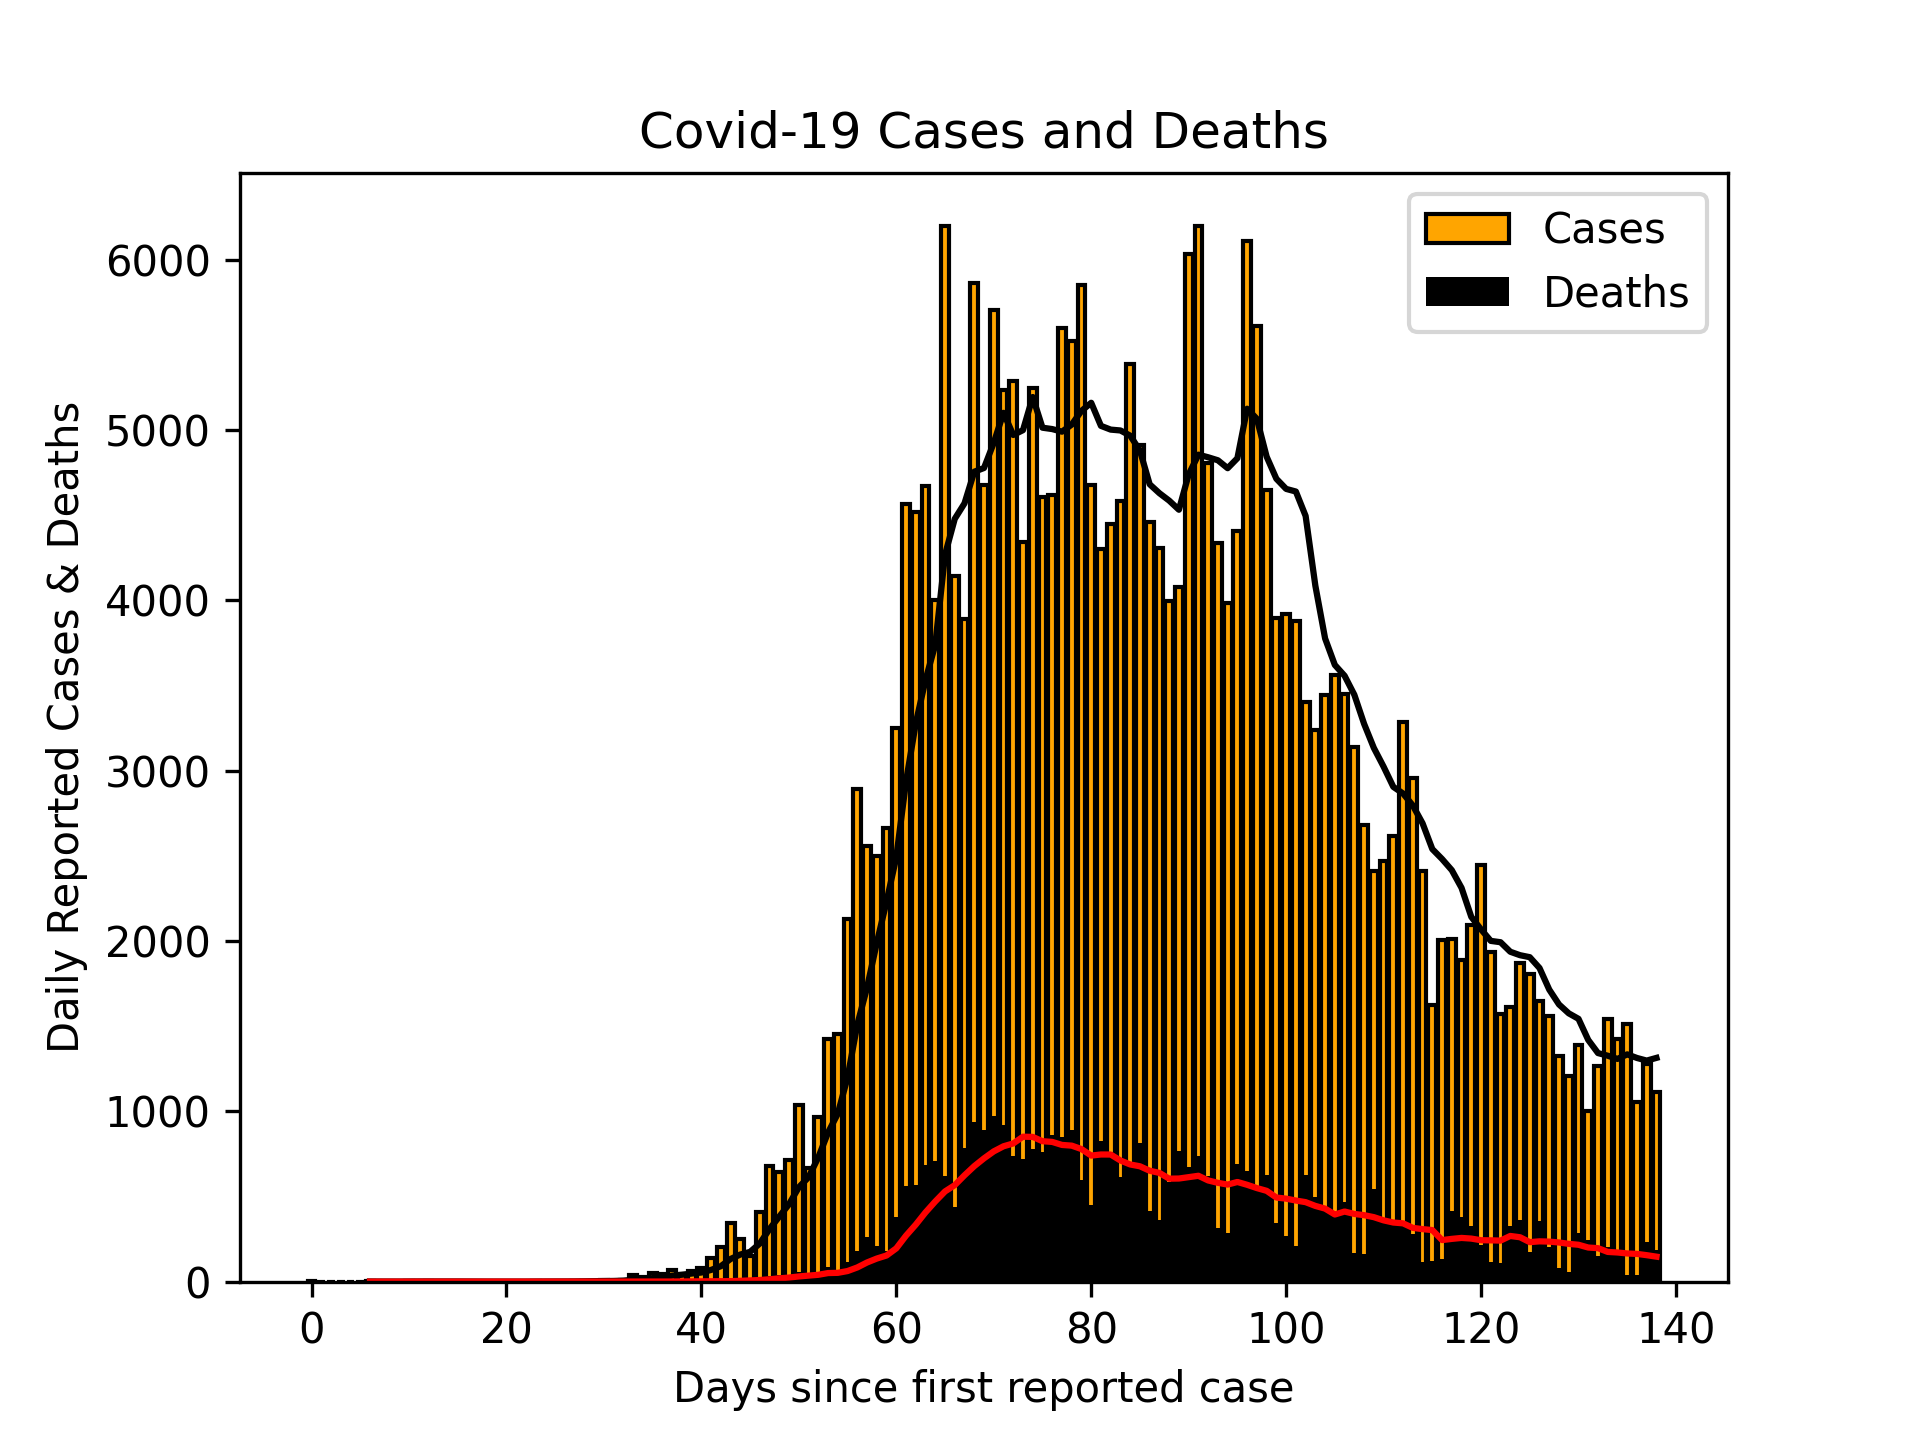
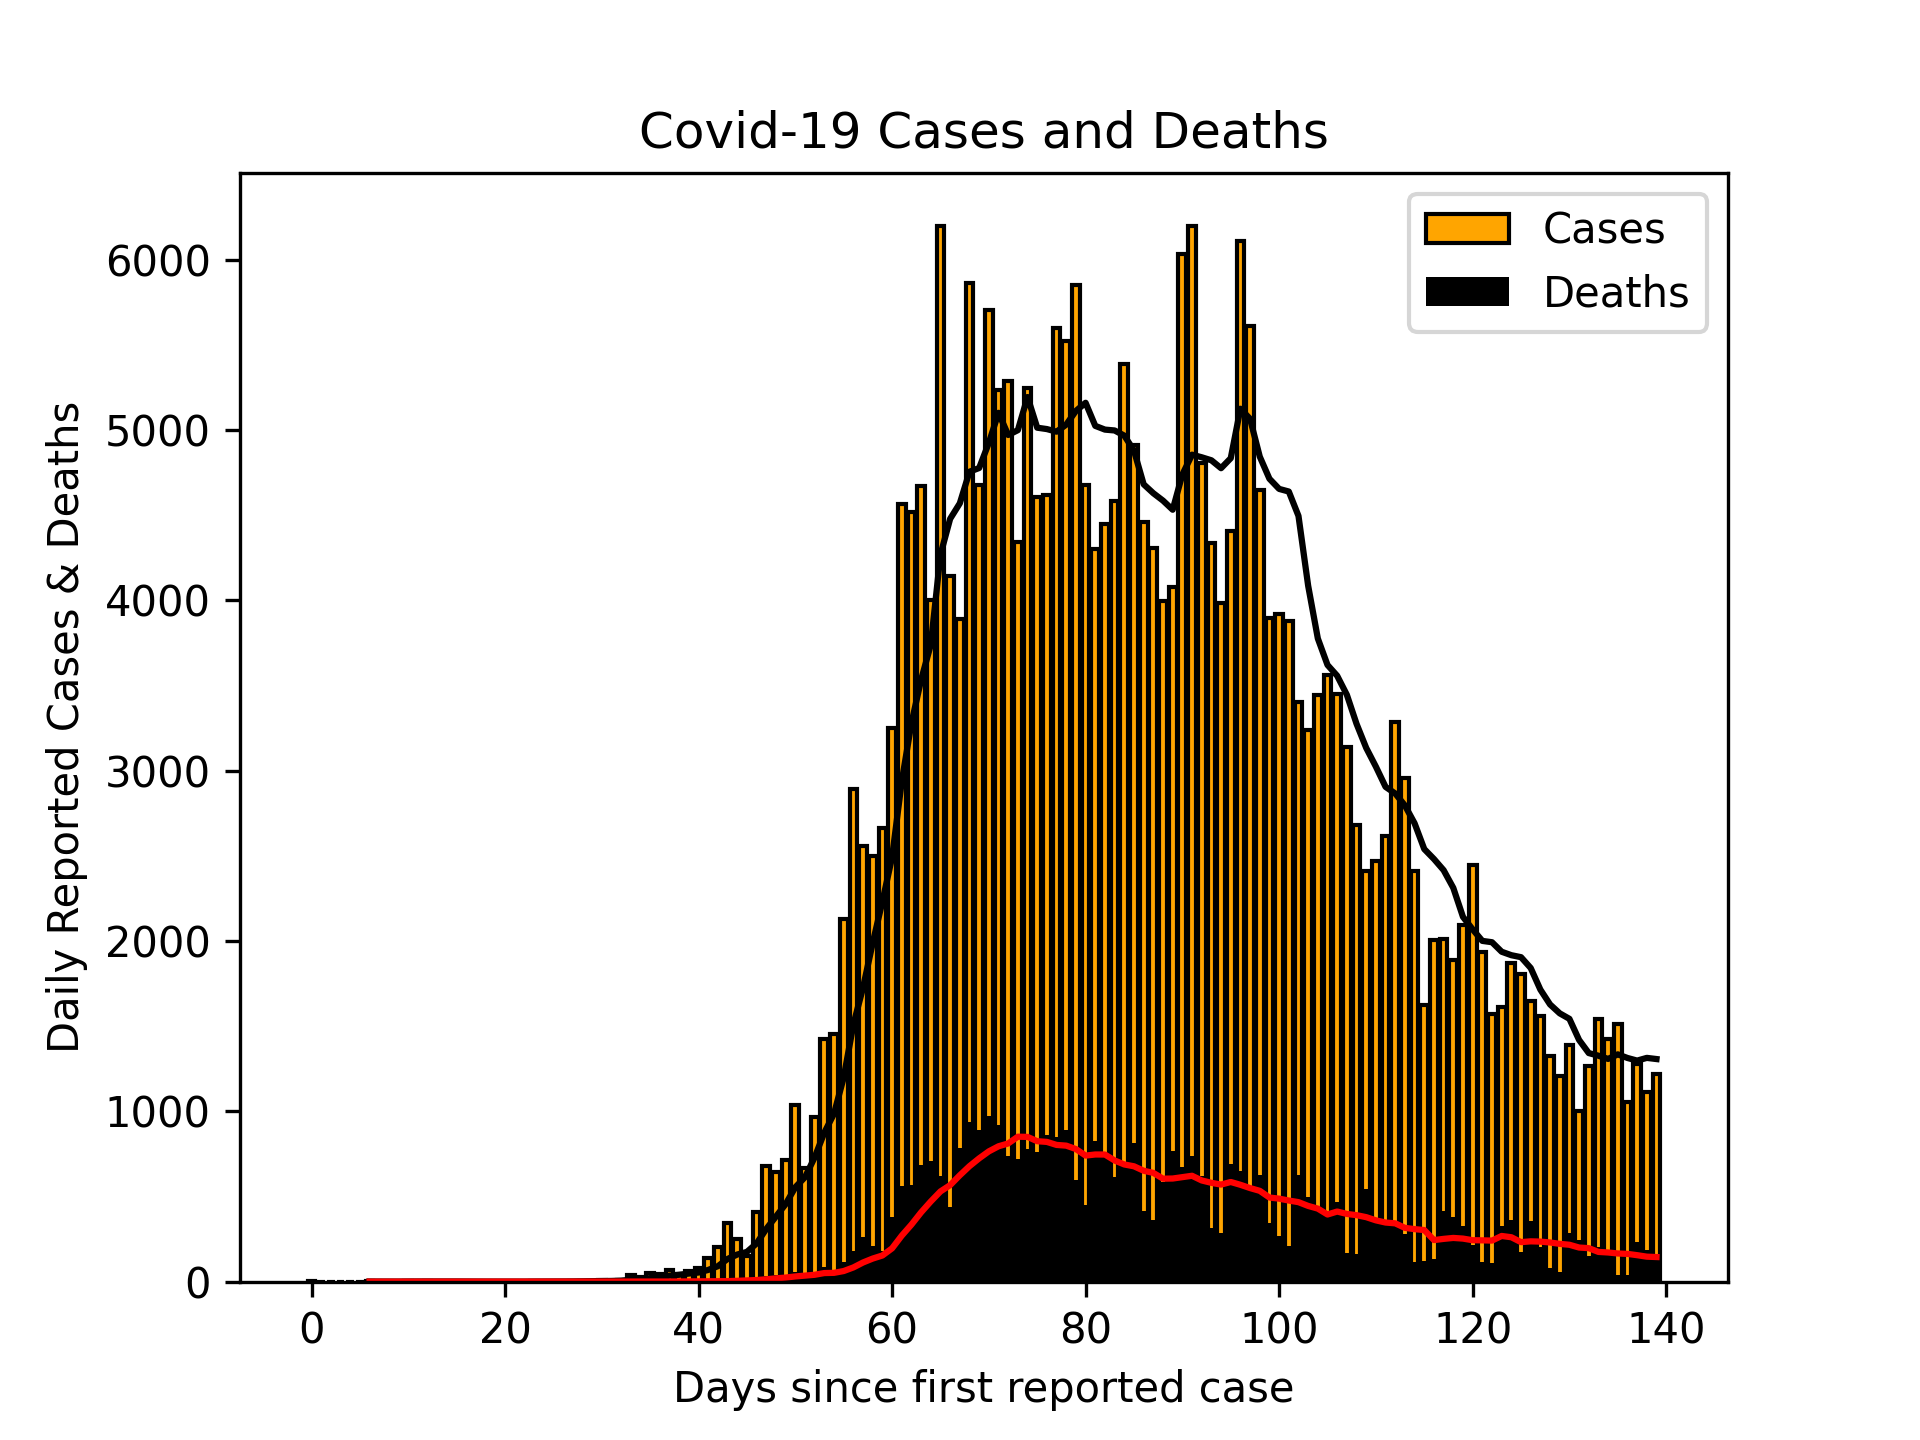
Updated UK cases 18/06/20

diff --git a/README.md b/README.md
@@ -1,5 +1,5 @@
 # Scottish Cases 18/06/20
 ![alt](scottish_cases.png)
 
-# UK Cases 17/06/20
+# UK Cases 18/06/20
 ![alt](uk_cases.png)
